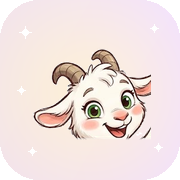
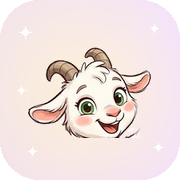
Lot 1 : 8 accessoires au style du dessin, ancres recalées, icône recadrée
Chapeau, lunettes, fleur, écharpe, tutu, baskets, ballon et arc-en-ciel
sont redessinés comme le dessin de Damien et ancrés sur la nouvelle
Chèvra. L'icône montre toute la tête (oreilles et cornes) avec une
marge, cache chevra-icons-v5. Le sac et le collier du dessin, déjà
peints sur la mascotte, sont retirés de la garde-robe.

Changed region(s): [[0.1389, 0.25, 0.8611, 0.7778], [0.7778, 0.7222, 0.8333, 0.7778], [0.8333, 0.6944, 0.8611, 0.7222]]

diff --git a/index.html b/index.html
@@ -9,10 +9,10 @@
 <meta name="mobile-web-app-capable" content="yes">
 <meta name="apple-mobile-web-app-title" content="Chèvra">
 <title>Chèvra – Révisions CM2</title>
-<link rel="icon" type="image/png" sizes="32x32" href="icons/favicon-32.png?v=4">
-<link rel="icon" type="image/png" sizes="64x64" href="icons/favicon-64.png?v=4">
-<link rel="icon" type="image/png" sizes="192x192" href="icons/icon-192.png?v=4">
-<link rel="apple-touch-icon" sizes="180x180" href="icons/apple-touch-icon.png?v=4">
+<link rel="icon" type="image/png" sizes="32x32" href="icons/favicon-32.png?v=5">
+<link rel="icon" type="image/png" sizes="64x64" href="icons/favicon-64.png?v=5">
+<link rel="icon" type="image/png" sizes="192x192" href="icons/icon-192.png?v=5">
+<link rel="apple-touch-icon" sizes="180x180" href="icons/apple-touch-icon.png?v=5">
 <link rel="manifest" href="manifest.webmanifest">
 <style>
 /* =========================================================
@@ -551,13 +551,13 @@ body.welcome main{padding:24px calc(16px + var(--safe-r)) calc(32px + var(--safe
 -->
 <div class="app" id="app">
   <header class="topbar">
-    <button class="brand" aria-label="Chèvra, retour à la carte"><img class="logo" src="icons/icon-192.png?v=4" width="48" height="48" alt=""><span>Chèvra</span></button>
+    <button class="brand" aria-label="Chèvra, retour à la carte"><img class="logo" src="icons/icon-192.png?v=5" width="48" height="48" alt=""><span>Chèvra</span></button>
     <div class="pills" id="pills"></div>
     <button class="iconbtn musicbtn" aria-pressed="false" aria-label="Activer la musique">🎵</button>
     <button class="iconbtn soundbtn" aria-pressed="false" aria-label="Couper le son">🔊</button>
   </header>
   <aside class="sidebar" aria-label="Menu">
-    <button class="brand" aria-label="Chèvra, retour à la carte"><img class="logo" src="icons/icon-192.png?v=4" width="48" height="48" alt=""><span>Chèvra<br><small class="muted" style="font-size:.8rem;font-weight:600">Révisions CM2</small></span></button>
+    <button class="brand" aria-label="Chèvra, retour à la carte"><img class="logo" src="icons/icon-192.png?v=5" width="48" height="48" alt=""><span>Chèvra<br><small class="muted" style="font-size:.8rem;font-weight:600">Révisions CM2</small></span></button>
     <nav class="mainnav" id="nav" aria-label="Navigation principale"></nav>
     <div class="side-foot">
       <button class="btn musicbtn" aria-pressed="false">🎵 Musique : non</button>
@@ -1689,27 +1689,53 @@ document.addEventListener('visibilitychange', ()=>{ if(document.hidden) musicSto
 /* ---------- 5. Mascotte Chèvra (dessin de Damien en image, accessoires en calques SVG) ----------
    Une seule pose. Humeurs : rebonds, inclinaison, paillettes, larme, bulle « ? ».
    Accessoires : injectés dans les calques <g data-l="…"> par dressChevra(). */
+/* Ancres mesurées sur le dessin de Damien (viewBox 200×294, image 1024×1502).
+   transform = translate(tx ty) rotate(rot) scale(s) translate(-ox -oy)
+   (ox,oy) = point d'origine dans le dessin SVG des accessoires ; (tx,ty) = repère sur la photo. */
+const LAYER_XFORM = {
+  fond:  {tx:0, ty:0, rot:0, s:1, ox:0, oy:0},
+  dos:   {tx:88, ty:178, rot:0, s:0.85, ox:100, oy:170},
+  queue: {tx:42, ty:194, rot:-20, s:0.75, ox:34, oy:176},
+  pattes:{tx:85, ty:270, rot:0, s:0.95, ox:88, oy:220},
+  corps: {tx:94, ty:200, rot:0, s:0.8, ox:100, oy:170},
+  armL:  {tx:76, ty:158, rot:20, s:0.8, ox:68, oy:202},
+  cou:   {tx:108, ty:134, rot:-6, s:0.85, ox:100, oy:148},
+  horns: {tx:75, ty:26, rot:-12, s:0.65, ox:100, oy:48},
+  earL:  {tx:28, ty:94, rot:15, s:0.9, ox:30, oy:98},
+  earR:  {tx:152, ty:52, rot:-25, s:0.85, ox:170, oy:98},
+  joue:  {tx:93, ty:92, rot:-12, s:0.82, ox:100, oy:119},
+  museau:{tx:102, ty:98, rot:-10, s:0.75, ox:100, oy:115},
+  yeux:  {tx:91, ty:75, rot:-13, s:0.85, ox:100, oy:98},
+  front: {tx:88, ty:52, rot:-12, s:0.75, ox:100, oy:70},
+  haut:  {tx:82, ty:32, rot:-12, s:0.78, ox:100, oy:46},
+  armR:  {tx:180, ty:92, rot:25, s:0.85, ox:176, oy:38}
+};
+function layerTransform(L){
+  const t=LAYER_XFORM[L]||{tx:0,ty:0,rot:0,s:1,ox:0,oy:0};
+  return `translate(${t.tx} ${t.ty}) rotate(${t.rot||0}) scale(${t.s}) translate(${-t.ox} ${-t.oy})`;
+}
+const SPRITE_VER='5';
 function chevraSVG(){ return `<svg class="chevra" viewBox="0 0 200 294" role="img" aria-label="Chèvra, la petite chèvre blanche">
  <g class="c-bg" data-l="fond"></g>
  <g class="c-all">
-  <g data-l="dos" transform="translate(100 178) scale(0.78) translate(-100 -170)"></g>
-  <image class="c-photo" href="icons/chevra-mascot-1024.webp?v=4" x="0" y="0" width="200" height="294" preserveAspectRatio="xMidYMid meet"/>
-  <g data-l="queue" transform="translate(46 195) scale(0.7) translate(-34 -176)"></g>
-  <g data-l="pattes" transform="translate(89 261) scale(0.9) translate(-88 -220)"></g>
-  <g data-l="corps" transform="translate(102 180) scale(0.72) translate(-100 -170)"></g>
-  <g data-l="armL" transform="translate(91 156) scale(0.8) translate(-68 -202)"></g>
-  <g data-l="cou" transform="translate(108 134) scale(0.7) translate(-100 -148)"></g>
+  <g data-l="dos" transform="${layerTransform('dos')}"></g>
+  <image class="c-photo" href="icons/chevra-mascot-1024.webp?v=5" x="0" y="0" width="200" height="294" preserveAspectRatio="xMidYMid meet"/>
+  <g data-l="queue" transform="${layerTransform('queue')}"></g>
+  <g data-l="pattes" transform="${layerTransform('pattes')}"></g>
+  <g data-l="corps" transform="${layerTransform('corps')}"></g>
+  <g data-l="armL" transform="${layerTransform('armL')}"></g>
+  <g data-l="cou" transform="${layerTransform('cou')}"></g>
   <g class="c-head">
-   <g data-l="horns" transform="translate(93 16) scale(0.4) translate(-100 -48)"></g>
-   <g data-l="earL" transform="translate(16 91) scale(0.85) translate(-30 -98)"></g>
-   <g data-l="earR" transform="translate(164 68) scale(0.85) translate(-170 -98)"></g>
-   <g data-l="joue" transform="translate(102 91) scale(0.8) translate(-100 -119)"></g>
-   <g data-l="museau" transform="translate(106 97) scale(0.7) translate(-100 -115)"></g>
-   <g data-l="yeux" transform="translate(106 73) scale(0.82) translate(-100 -98)"></g>
-   <g data-l="front" transform="translate(104 56) scale(0.72) translate(-100 -70)"></g>
-   <g data-l="haut" transform="translate(102 36) scale(0.7) translate(-100 -46)"></g>
+   <g data-l="horns" transform="${layerTransform('horns')}"></g>
+   <g data-l="earL" transform="${layerTransform('earL')}"></g>
+   <g data-l="earR" transform="${layerTransform('earR')}"></g>
+   <g data-l="joue" transform="${layerTransform('joue')}"></g>
+   <g data-l="museau" transform="${layerTransform('museau')}"></g>
+   <g data-l="yeux" transform="${layerTransform('yeux')}"></g>
+   <g data-l="front" transform="${layerTransform('front')}"></g>
+   <g data-l="haut" transform="${layerTransform('haut')}"></g>
   </g>
-  <g data-l="armR" transform="translate(174 81) scale(0.8) translate(-176 -38)"></g>
+  <g data-l="armR" transform="${layerTransform('armR')}"></g>
   <g class="c-tears"><path d="M78 88 q-3.6 7 0 11 q3.6 -3.2 0 -11z" fill="#9fdcff" stroke="#6fb8e0" stroke-width="1.2"/></g>
   <g class="c-sweat"><path d="M150 48 q-7 10 0 14 q7 -4 0 -14z" fill="#bfe8ff" stroke="#6fb8e0" stroke-width="1.6"/></g>
   <g class="c-think"><circle cx="158" cy="28" r="3.2" fill="#fff" stroke="#d8cfe6" stroke-width="1.8"/><circle cx="168" cy="16" r="5" fill="#fff" stroke="#d8cfe6" stroke-width="1.8"/><ellipse cx="184" cy="2" rx="15" ry="13" fill="#fff" stroke="#d8cfe6" stroke-width="2.2"/><text x="184" y="8" font-size="16" font-weight="bold" text-anchor="middle" fill="#7a5cd6">?</text></g>
@@ -1775,7 +1801,7 @@ const _S = 'stroke="'+_O+'" stroke-width="2.5" stroke-linejoin="round"';
 
 const ACCESSOIRES = [
   /* ----- Tête ----- */
-  {id:'hat', nom:'Chapeau de paille', cat:'tete', prix:60, slots:['haut','corneG','corneD'], hide:['horns'], parts:[['haut',`<path d="M68 46 Q70 8 100 8 Q130 8 132 46 Z" fill="#f6c35b" ${_S}/><path d="M69 34 H131" stroke="#ff6f9f" stroke-width="8"/><ellipse cx="100" cy="46" rx="64" ry="11" fill="#f6c35b" ${_S}/><path d="M48 46 q52 8 104 0" stroke="#e0a63c" stroke-width="2" fill="none"/>`]]},
+  {id:'hat', nom:'Chapeau de paille', cat:'tete', prix:60, slots:['haut','corneG','corneD'], hide:['horns'], sprite:{layer:'haut', src:'icons/acc/hat.webp', cx:86, cy:36, w:114, h:71, rot:-10}, parts:[['haut',`<path d="M68 46 Q70 8 100 8 Q130 8 132 46 Z" fill="#f6c35b" ${_S}/><path d="M69 34 H131" stroke="#ff6f9f" stroke-width="8"/><ellipse cx="100" cy="46" rx="64" ry="11" fill="#f6c35b" ${_S}/><path d="M48 46 q52 8 104 0" stroke="#e0a63c" stroke-width="2" fill="none"/>`]]},
   {id:'crown', nom:'Couronne royale', cat:'tete', prix:150, slots:['haut'], parts:[['haut',`<path d="M74 46 L77 12 L90 28 L100 6 L110 28 L123 12 L126 46 Z" fill="#ffd34d" ${_S}/><path d="M75 40 H125" stroke="#e8a800" stroke-width="3"/><circle cx="100" cy="32" r="4.5" fill="#ff5c93" stroke="${_O}" stroke-width="1.5"/><circle cx="85" cy="36" r="3.2" fill="#5bc0ff"/><circle cx="115" cy="36" r="3.2" fill="#3cc59a"/><circle cx="100" cy="6" r="3" fill="#fff" stroke="${_O}" stroke-width="1.5"/>`]]},
   {id:'wizard', nom:'Chapeau de magicienne', cat:'tete', prix:90, slots:['haut','corneG','corneD'], hide:['horns'], parts:[['haut',`<path d="M62 48 L108 -12 L138 48 Z" fill="#7a5cd6" ${_S}/><ellipse cx="100" cy="48" rx="46" ry="9" fill="#7a5cd6" ${_S}/><path d="${_star(100,22,6)}" fill="#ffd36e"/><path d="${_star(116,36,4)}" fill="#ffd36e"/><path d="${_star(86,40,3.5)}" fill="#ffd36e"/><circle cx="108" cy="-12" r="4.5" fill="#ffd36e" stroke="${_O}" stroke-width="1.5"/>`]]},
   {id:'headphones', nom:'Casque de musique', cat:'tete', prix:70, slots:['haut','oreilleG','oreilleD'], parts:[['haut',`<path d="M42 100 Q36 26 100 24 Q164 26 158 100" fill="none" stroke="${_O}" stroke-width="12" stroke-linecap="round"/><path d="M42 100 Q36 26 100 24 Q164 26 158 100" fill="none" stroke="#7aa7ff" stroke-width="7" stroke-linecap="round"/><rect x="30" y="84" width="22" height="32" rx="11" fill="#7aa7ff" ${_S}/><rect x="148" y="84" width="22" height="32" rx="11" fill="#7aa7ff" ${_S}/><circle cx="41" cy="100" r="5" fill="#ffd1e3"/><circle cx="159" cy="100" r="5" fill="#ffd1e3"/>`]]},
@@ -1787,7 +1813,7 @@ const ACCESSOIRES = [
   {id:'unicorn', nom:'Corne de licorne', cat:'tete', recompense:{badge:'serie7', txt:'Jouer 7 jours de suite'}, slots:['front'], parts:[['front',`<path d="M91 50 L100 0 L109 50 Z" fill="#fff4b8" ${_S}/><path d="M93 40 L106 34 M95 28 L105 23 M97 16 L103 12" stroke="#ffb3d1" stroke-width="3" stroke-linecap="round"/>`]]},
   {id:'headband', nom:'Bandeau de sport', cat:'tete', prix:25, slots:['front'], parts:[['front',`<path d="M42 74 Q100 46 158 74 L156 86 Q100 58 44 86 Z" fill="#7fd6b0" ${_S}/><path d="M60 72 Q100 54 140 72" stroke="#fff" stroke-width="3" fill="none" opacity=".8"/>`]]},
   /* ----- Oreilles & cornes ----- */
-  {id:'flower', nom:'Fleur rose', cat:'oreilles', prix:15, slots:['oreilleG'], parts:[['earL',_flower(27,89,5.5,'#ff8fb8')]]},
+  {id:'flower', nom:'Fleur rose', cat:'oreilles', prix:15, slots:['oreilleG'], sprite:{layer:'earL', src:'icons/acc/flower.webp', cx:28, cy:90, w:28, h:26, rot:-25}, parts:[['earL',_flower(27,89,5.5,'#ff8fb8')]]},
   {id:'bowL', nom:'Petit nœud bleu', cat:'oreilles', prix:15, slots:['oreilleG'], parts:[['earL',_bow(27,89,.75,'#8fd3ff','#4f9ccc',-30)]]},
   {id:'earringL', nom:'Boucle d\'oreille étoile', cat:'oreilles', prix:20, slots:['oreilleG'], parts:[['earL',`<path d="M14 105 v8" stroke="#e8a800" stroke-width="2.5"/><circle cx="14" cy="104" r="2.5" fill="#ffd34d" stroke="${_O}" stroke-width="1.2"/><path d="${_star(14,120,7)}" fill="#ffd34d" stroke="${_O}" stroke-width="1.5" stroke-linejoin="round"/>`]]},
   {id:'bow', nom:'Joli nœud rose', cat:'oreilles', prix:25, slots:['oreilleD'], parts:[['earR',_bow(173,89,.8,'#ff5c93','#d63a75',30)]]},
@@ -1798,7 +1824,7 @@ const ACCESSOIRES = [
   {id:'hornflower', nom:'Fleurette de corne', cat:'oreilles', prix:20, slots:['corneG'], parts:[['horns',_flower(20,44,4,'#c3a6ff')]]},
   {id:'pompom', nom:'Pompon de corne', cat:'oreilles', prix:20, slots:['corneD'], parts:[['horns',`<circle cx="180" cy="46" r="8" fill="#ffd36e" stroke="${_O}" stroke-width="2"/><path d="M168 40 l12 8 M168 52 l12 -8 M174 36 v16" stroke="#f4b23c" stroke-width="1.6"/>`]]},
   /* ----- Visage ----- */
-  {id:'glasses', nom:'Lunettes de savante', cat:'visage', prix:30, slots:['yeux'], parts:[['yeux',`<circle cx="76" cy="98" r="19" fill="rgba(255,255,255,.15)" stroke="#6a4bc4" stroke-width="4"/><circle cx="124" cy="98" r="19" fill="rgba(255,255,255,.15)" stroke="#6a4bc4" stroke-width="4"/><path d="M95 96 q5 -5 10 0 M57 94 L42 88 M143 94 L158 88" stroke="#6a4bc4" stroke-width="4" fill="none" stroke-linecap="round"/>`]]},
+  {id:'glasses', nom:'Lunettes de savante', cat:'visage', prix:30, slots:['yeux'], sprite:{layer:'yeux', src:'icons/acc/glasses.webp', cx:91, cy:82, w:82, h:44, rot:0}, parts:[['yeux',`<circle cx="76" cy="98" r="19" fill="rgba(255,255,255,.15)" stroke="#6a4bc4" stroke-width="4"/><circle cx="124" cy="98" r="19" fill="rgba(255,255,255,.15)" stroke="#6a4bc4" stroke-width="4"/><path d="M95 96 q5 -5 10 0 M57 94 L42 88 M143 94 L158 88" stroke="#6a4bc4" stroke-width="4" fill="none" stroke-linecap="round"/>`]]},
   {id:'sunglasses', nom:'Lunettes de soleil', cat:'visage', prix:50, slots:['yeux'], parts:[['yeux',`<path d="M54 86 h42 q0 27 -21 27 q-21 0 -21 -27z" fill="#2d2440" ${_S}/><path d="M104 86 h42 q0 27 -21 27 q-21 0 -21 -27z" fill="#2d2440" ${_S}/><path d="M96 89 h8 M54 88 L42 84 M146 88 L158 84" stroke="#2d2440" stroke-width="4" stroke-linecap="round"/><path d="M61 92 l8 0 M111 92 l8 0" stroke="#fff" stroke-width="3" stroke-linecap="round" opacity=".7"/>`]]},
   {id:'monocle', nom:'Monocle chic', cat:'visage', prix:40, slots:['yeux'], parts:[['yeux',`<circle cx="124" cy="98" r="19" fill="rgba(255,255,255,.15)" stroke="#e8a800" stroke-width="4"/><path d="M140 110 q14 20 4 40" stroke="#e8a800" stroke-width="2" fill="none" stroke-dasharray="3 3"/>`]]},
   {id:'heartglasses', nom:'Lunettes cœur', cat:'visage', prix:45, slots:['yeux'], parts:[['yeux',`<path d="${_heart(76,100,46)}" fill="rgba(255,92,147,.55)" stroke="#e0306f" stroke-width="3.5"/><path d="${_heart(124,100,46)}" fill="rgba(255,92,147,.55)" stroke="#e0306f" stroke-width="3.5"/><path d="M96 90 h8" stroke="#e0306f" stroke-width="3.5"/>`]]},
@@ -1806,33 +1832,33 @@ const ACCESSOIRES = [
   {id:'sparkles', nom:'Paillettes de joues', cat:'visage', prix:15, slots:['joue'], parts:[['joue',`<path d="${_star(48,128,5)}" fill="#ffd34d"/><path d="${_star(58,133,3)}" fill="#ff8fb8"/><path d="${_star(152,128,5)}" fill="#ffd34d"/><path d="${_star(142,133,3)}" fill="#8fd3ff"/>`]]},
   {id:'mustache', nom:'Moustache rigolote', cat:'visage', prix:25, slots:['museau'], parts:[['museau',`<path d="M100 119 C92 113 82 113 78 120 C84 118 90 122 100 121 C110 122 116 118 122 120 C118 113 108 113 100 119Z" fill="#8a5a44" stroke="${_O}" stroke-width="1.5"/>`]]},
   /* ----- Cou ----- */
-  {id:'scarf', nom:'Écharpe douillette', cat:'cou', prix:40, slots:['cou'], parts:[['cou',`<path d="M56 140 Q100 162 144 140 L148 154 Q100 180 52 154 Z" fill="#ff6f9f" ${_S}/><path d="M118 160 l12 30 l-14 4 l-8 -31z" fill="#ff6f9f" ${_S}/><path d="M72 152 l-2 9 M90 157 l0 9 M110 157 l1 9 M128 152 l2 9" stroke="#fff" stroke-width="3" opacity=".75" stroke-linecap="round"/>`]]},
+  {id:'scarf', nom:'Écharpe douillette', cat:'cou', prix:40, slots:['cou'], sprite:{layer:'cou', src:'icons/acc/scarf.webp', cx:96, cy:163, w:110, h:123, rot:-6}, parts:[['cou',`<path d="M56 140 Q100 162 144 140 L148 154 Q100 180 52 154 Z" fill="#ff6f9f" ${_S}/><path d="M118 160 l12 30 l-14 4 l-8 -31z" fill="#ff6f9f" ${_S}/><path d="M72 152 l-2 9 M90 157 l0 9 M110 157 l1 9 M128 152 l2 9" stroke="#fff" stroke-width="3" opacity=".75" stroke-linecap="round"/>`]]},
   {id:'bowtie', nom:'Nœud papillon', cat:'cou', prix:35, slots:['cou'], parts:[['cou',`<g transform="translate(100 150)"><path d="M0 0 L-17 -10 V10Z M0 0 L17 -10 V10Z" fill="#5bc0ff" ${_S}/><circle r="4.5" fill="#2f8fd0" stroke="${_O}" stroke-width="1.5"/></g>`]]},
   {id:'lei', nom:'Collier de fleurs', cat:'cou', prix:40, slots:['cou'], parts:[['cou',`${_flower(66,146,4,'#ff8fb8')}${_flower(80,154,4,'#ffd36e','#ff8fb8')}${_flower(94,158,4,'#c3a6ff')}${_flower(108,158,4,'#8fd3ff')}${_flower(122,154,4,'#ff8fb8')}${_flower(135,146,4,'#ffd36e','#ff8fb8')}`]]},
   {id:'bell', nom:'Clochette de chèvre', cat:'cou', recompense:{badge:'defi5', txt:'Terminer 5 défis du jour'}, slots:['cou'], parts:[['cou',`<path d="M60 142 Q100 160 140 142" stroke="${_O}" stroke-width="9" fill="none" stroke-linecap="round"/><path d="M60 142 Q100 160 140 142" stroke="#e0306f" stroke-width="5.5" fill="none" stroke-linecap="round"/><path d="M90 168 Q90 152 100 152 Q110 152 110 168 Z" fill="#ffd34d" ${_S}/><circle cx="100" cy="170" r="3" fill="#e8a800" stroke="${_O}" stroke-width="1.2"/>`]]},
   {id:'medal', nom:'Médaille d\'or', cat:'cou', recompense:{badge:'cent', txt:'Donner 100 bonnes réponses'}, slots:['cou'], parts:[['cou',`<path d="M82 144 L96 172 L104 172 L118 144 L108 144 L100 160 L92 144 Z" fill="#5bc0ff" ${_S}/><circle cx="100" cy="178" r="11" fill="#ffd34d" ${_S}/><path d="${_star(100,178,6)}" fill="#fff4b8"/>`]]},
-  {id:'collier_cloche', nom:'Collier et clochette', cat:'cou', recompense:{badge:'parfait', txt:'Obtenir 3 étoiles à un niveau'}, slots:['cou'], parts:[['cou',`<path d="M68 142 Q100 158 132 142" stroke="${_O}" stroke-width="9" fill="none" stroke-linecap="round"/><path d="M68 142 Q100 158 132 142" stroke="#8a5a32" stroke-width="5.5" fill="none" stroke-linecap="round"/><path d="M91 170 Q91 154 100 152 Q109 154 109 170 Q100 176 91 170 Z" fill="#ffd34d" ${_S}/><ellipse cx="100" cy="160" rx="5" ry="3" fill="#ffe9a0"/><circle cx="100" cy="171" r="2.6" fill="#e8a800" stroke="${_O}" stroke-width="1.2"/>`]]},
+  {id:'collier_cloche', hidden:true, nom:'Collier et clochette', cat:'cou', recompense:{badge:'parfait', txt:'Obtenir 3 étoiles à un niveau'}, slots:['cou'], parts:[['cou',`<path d="M68 142 Q100 158 132 142" stroke="${_O}" stroke-width="9" fill="none" stroke-linecap="round"/><path d="M68 142 Q100 158 132 142" stroke="#8a5a32" stroke-width="5.5" fill="none" stroke-linecap="round"/><path d="M91 170 Q91 154 100 152 Q109 154 109 170 Q100 176 91 170 Z" fill="#ffd34d" ${_S}/><ellipse cx="100" cy="160" rx="5" ry="3" fill="#ffe9a0"/><circle cx="100" cy="171" r="2.6" fill="#e8a800" stroke="${_O}" stroke-width="1.2"/>`]]},
   /* ----- Corps & dos ----- */
   {id:'sweater', nom:'Pull tout doux', cat:'corps', prix:55, slots:['corps'], parts:[['corps',`<path d="M64 158 Q66 140 100 140 Q134 140 136 158 L138 196 Q100 210 62 196 Z" fill="#9ad8ff" ${_S}/><path d="M64 172 Q100 180 136 172 M63 186 Q100 195 137 186" stroke="#d6f0ff" stroke-width="4" fill="none"/><path d="M80 143 Q100 152 120 143" stroke="#6fb8e0" stroke-width="5" fill="none" stroke-linecap="round"/>`]]},
   {id:'tshirt', nom:'T-shirt étoile', cat:'corps', prix:35, slots:['corps'], parts:[['corps',`<path d="M64 158 Q66 140 100 140 Q134 140 136 158 L138 196 Q100 210 62 196 Z" fill="#ffe08a" ${_S}/><path d="${_star(100,176,12)}" fill="#ff8fb8" stroke="${_O}" stroke-width="1.8" stroke-linejoin="round"/>`]]},
-  {id:'tutu', nom:'Tutu de danseuse', cat:'corps', prix:50, slots:['corps'], parts:[['corps',`<path d="M60 186 q8 14 16 2 q8 14 16 2 q8 14 16 2 q8 14 16 2 q8 14 16 2 L134 182 Q100 196 66 182 Z" fill="#ffc0dc" ${_S}/><path d="M66 184 Q100 194 134 184" stroke="#ff8fb8" stroke-width="4" fill="none"/>`]]},
+  {id:'tutu', nom:'Tutu de danseuse', cat:'corps', prix:50, slots:['corps'], sprite:{layer:'corps', src:'icons/acc/tutu.webp', cx:92, cy:220, w:120, h:60, rot:0}, parts:[['corps',`<path d="M60 186 q8 14 16 2 q8 14 16 2 q8 14 16 2 q8 14 16 2 q8 14 16 2 L134 182 Q100 196 66 182 Z" fill="#ffc0dc" ${_S}/><path d="M66 184 Q100 194 134 184" stroke="#ff8fb8" stroke-width="4" fill="none"/>`]]},
   {id:'cape', nom:'Cape de héroïne', cat:'corps', recompense:{perfect10:1, txt:'Faire un sans-faute au défi aléatoire (10 questions ou plus)'}, slots:['dos'], parts:[['dos',`<path d="M66 146 Q100 136 134 146 L162 212 Q100 224 38 212 Z" fill="#e0306f" ${_S}/><path d="M70 150 L48 208 M130 150 L152 208" stroke="#b81f55" stroke-width="2.5" fill="none"/>`],['cou',`<circle cx="70" cy="148" r="5" fill="#ffd34d" stroke="${_O}" stroke-width="1.6"/><circle cx="130" cy="148" r="5" fill="#ffd34d" stroke="${_O}" stroke-width="1.6"/>`]]},
   {id:'wings', nom:'Ailes de papillon', cat:'corps', prix:80, slots:['dos'], parts:[['dos',`<path d="M74 160 C40 120 10 140 22 168 C10 190 44 206 74 182 Z" fill="#c3a6ff" ${_S}/><path d="M126 160 C160 120 190 140 178 168 C190 190 156 206 126 182 Z" fill="#c3a6ff" ${_S}/><circle cx="36" cy="160" r="6" fill="#ffd1e3"/><circle cx="164" cy="160" r="6" fill="#ffd1e3"/><circle cx="42" cy="184" r="4" fill="#fff"/><circle cx="158" cy="184" r="4" fill="#fff"/>`]]},
-  {id:'sac_bleu', nom:'Sac à dos bleu', cat:'corps', recompense:{badge:'premier', txt:'Terminer un premier niveau'}, slots:['dos'], parts:[['dos',`<path d="M38 150 Q34 138 48 136 L64 146 L60 198 Q34 194 36 168 Z" fill="#4d8fd6" ${_S}/><path d="M162 150 Q166 138 152 136 L136 146 L140 198 Q166 194 164 168 Z" fill="#4d8fd6" ${_S}/><path d="M56 182 Q100 212 144 182 L148 204 Q100 226 52 204 Z" fill="#4d8fd6" ${_S}/><path d="M44 164 h14 M156 164 h-14" stroke="#ffd34d" stroke-width="3.2" stroke-linecap="round"/><path d="M50 178 q-4 10 0 22 M150 178 q4 10 0 22" stroke="#3a6fad" stroke-width="2" fill="none"/>`],['cou',`<path d="M80 138 Q64 152 48 168" fill="none" stroke="${_O}" stroke-width="5.2" stroke-linecap="round"/><path d="M80 138 Q64 152 48 168" fill="none" stroke="#7eb3ee" stroke-width="2.8" stroke-linecap="round"/><path d="M120 138 Q136 152 152 168" fill="none" stroke="${_O}" stroke-width="5.2" stroke-linecap="round"/><path d="M120 138 Q136 152 152 168" fill="none" stroke="#7eb3ee" stroke-width="2.8" stroke-linecap="round"/>`]]},
+  {id:'sac_bleu', hidden:true, nom:'Sac à dos bleu', cat:'corps', recompense:{badge:'premier', txt:'Terminer un premier niveau'}, slots:['dos'], parts:[['dos',`<path d="M38 150 Q34 138 48 136 L64 146 L60 198 Q34 194 36 168 Z" fill="#4d8fd6" ${_S}/><path d="M162 150 Q166 138 152 136 L136 146 L140 198 Q166 194 164 168 Z" fill="#4d8fd6" ${_S}/><path d="M56 182 Q100 212 144 182 L148 204 Q100 226 52 204 Z" fill="#4d8fd6" ${_S}/><path d="M44 164 h14 M156 164 h-14" stroke="#ffd34d" stroke-width="3.2" stroke-linecap="round"/><path d="M50 178 q-4 10 0 22 M150 178 q4 10 0 22" stroke="#3a6fad" stroke-width="2" fill="none"/>`],['cou',`<path d="M80 138 Q64 152 48 168" fill="none" stroke="${_O}" stroke-width="5.2" stroke-linecap="round"/><path d="M80 138 Q64 152 48 168" fill="none" stroke="#7eb3ee" stroke-width="2.8" stroke-linecap="round"/><path d="M120 138 Q136 152 152 168" fill="none" stroke="${_O}" stroke-width="5.2" stroke-linecap="round"/><path d="M120 138 Q136 152 152 168" fill="none" stroke="#7eb3ee" stroke-width="2.8" stroke-linecap="round"/>`]]},
   {id:'mittens', nom:'Moufles douillettes', cat:'corps', prix:30, slots:['patteAvant'], parts:[['armL',`<ellipse cx="68" cy="202" rx="11" ry="9" fill="#ff8fb8" ${_S}/><path d="M58 197 h20" stroke="#fff" stroke-width="3" stroke-linecap="round"/>`],['armR',`<g transform="rotate(18 176 38)"><ellipse cx="176" cy="38" rx="11" ry="9" fill="#ff8fb8" ${_S}/><path d="M166 33 h20" stroke="#fff" stroke-width="3" stroke-linecap="round"/></g>`]]},
   {id:'bracelet', nom:'Bracelet de perles', cat:'corps', prix:20, slots:['patteAvant'], parts:[['armL',`<g stroke="${_O}" stroke-width="1.2"><circle cx="62" cy="178" r="3.2" fill="#ff8fb8"/><circle cx="67" cy="181" r="3.2" fill="#ffd36e"/><circle cx="73" cy="184" r="3.2" fill="#8fd3ff"/><circle cx="78" cy="182" r="3.2" fill="#c3a6ff"/></g>`]]},
   /* ----- Pattes & queue ----- */
-  {id:'sneakers', nom:'Baskets', cat:'pattes', prix:45, slots:['pattes'], parts:[['pattes',`<path d="M73 217 h23 q4 0 4 6 v4 q0 4 -4 4 h-23 q-4 0 -4 -4 v-4 q0 -6 4 -6z M105 217 h23 q4 0 4 6 v4 q0 4 -4 4 h-23 q-4 0 -4 -4 v-4 q0 -6 4 -6z" fill="#ff6b6b" ${_S}/><path d="M70 227 h30 M102 227 h30" stroke="#fff" stroke-width="3.5"/><path d="M80 220 l8 0 M112 220 l8 0" stroke="#fff" stroke-width="2" stroke-linecap="round"/>`]]},
+  {id:'sneakers', nom:'Baskets', cat:'pattes', prix:45, slots:['pattes'], sprites:[{layer:'pattes', src:'icons/acc/sneakers-l.webp', cx:64, cy:263, w:38, h:30, rot:-12},{layer:'pattes', src:'icons/acc/sneakers-r.webp', cx:117, cy:260, w:42, h:33, rot:6, flip:true}], parts:[['pattes',`<path d="M73 217 h23 q4 0 4 6 v4 q0 4 -4 4 h-23 q-4 0 -4 -4 v-4 q0 -6 4 -6z M105 217 h23 q4 0 4 6 v4 q0 4 -4 4 h-23 q-4 0 -4 -4 v-4 q0 -6 4 -6z" fill="#ff6b6b" ${_S}/><path d="M70 227 h30 M102 227 h30" stroke="#fff" stroke-width="3.5"/><path d="M80 220 l8 0 M112 220 l8 0" stroke="#fff" stroke-width="2" stroke-linecap="round"/>`]]},
   {id:'boots', nom:'Bottes de pluie', cat:'pattes', prix:40, slots:['pattes'], parts:[['pattes',`<path d="M74 200 h21 v26 q0 5 -5 5 h-17 q-5 0 -5 -5 v-2 q0 -4 6 -4z M107 200 h21 v26 q0 5 -5 5 h-17 q-5 0 -5 -5 v-2 q0 -4 6 -4z" fill="#ffd34d" ${_S}/><path d="M74 206 h21 M107 206 h21" stroke="#e8a800" stroke-width="2.5"/>`]]},
   {id:'socks', nom:'Chaussettes rayées', cat:'pattes', prix:20, slots:['pattes'], parts:[['pattes',`<g stroke="#ff8fb8" stroke-width="3.5"><path d="M77 206 h17 M77 211 h17 M109 206 h17 M109 211 h17"/></g><g stroke="#8fd3ff" stroke-width="3.5"><path d="M77 208.5 h17 M77 213.5 h17 M109 208.5 h17 M109 213.5 h17"/></g>`]]},
   {id:'tailbow', nom:'Nœud de queue', cat:'pattes', prix:15, slots:['queue'], parts:[['queue',_bow(34,176,.6,'#c3a6ff','#7a5cd6',-20)]]},
   /* ----- Objets tenus ----- */
-  {id:'balloon', nom:'Ballon cœur', cat:'objets', prix:30, slots:['objet'], parts:[['armR',`<path d="M176 38 Q186 8 188 -20" stroke="${_O}" stroke-width="1.6" fill="none"/><path d="${_heart(192,-28,36)}" fill="#ff5c93" stroke="${_O}" stroke-width="2.2"/><path d="M182 -36 q3 -5 8 -5" stroke="#fff" stroke-width="3" fill="none" stroke-linecap="round" opacity=".8"/>`]]},
+  {id:'balloon', nom:'Ballon cœur', cat:'objets', prix:30, slots:['objet'], sprite:{layer:'armR', src:'icons/acc/balloon.webp', cx:172, cy:50, w:42, h:72, rot:10}, parts:[['armR',`<path d="M176 38 Q186 8 188 -20" stroke="${_O}" stroke-width="1.6" fill="none"/><path d="${_heart(192,-28,36)}" fill="#ff5c93" stroke="${_O}" stroke-width="2.2"/><path d="M182 -36 q3 -5 8 -5" stroke="#fff" stroke-width="3" fill="none" stroke-linecap="round" opacity=".8"/>`]]},
   {id:'wand', nom:'Baguette magique', cat:'objets', recompense:{badge:'revision', txt:'Terminer une révision intelligente'}, slots:['objet'], parts:[['armR',`<path d="M174 42 L188 8" stroke="${_O}" stroke-width="6" stroke-linecap="round"/><path d="M174 42 L188 8" stroke="#c3a6ff" stroke-width="3" stroke-linecap="round"/><path d="${_star(190,4,11)}" fill="#ffd34d" stroke="${_O}" stroke-width="2" stroke-linejoin="round"/>`]]},
   {id:'lollipop', nom:'Sucette arc-en-ciel', cat:'objets', prix:20, slots:['objet'], parts:[['armR',`<path d="M174 40 L186 12" stroke="#fff" stroke-width="4" stroke-linecap="round"/><path d="M174 40 L186 12" stroke="${_O}" stroke-width="1" fill="none"/><circle cx="190" cy="0" r="13" fill="#fff" ${_S}/><path d="M190 0 m-9 0 a9 9 0 0 1 18 0 a6 6 0 0 1 -12 0 a3 3 0 0 1 6 0" stroke="#ff5c93" stroke-width="3" fill="none"/><path d="M190 0 m-11 3 a11 11 0 0 0 22 0" stroke="#8fd3ff" stroke-width="3" fill="none"/>`]]},
   {id:'book', nom:'Livre de sciences', cat:'objets', prix:25, slots:['objet'], parts:[['armR',`<g transform="rotate(16 176 52)"><rect x="162" y="38" width="28" height="22" rx="3" fill="#3cc59a" ${_S}/><path d="M176 38 v22" stroke="${_O}" stroke-width="2"/><path d="${_star(183,49,4)}" fill="#fff"/></g>`]]},
   /* ----- Décors ----- */
-  {id:'rainbow', nom:'Arc-en-ciel', cat:'decors', recompense:{badge:'explo', txt:'Visiter les 6 îles'}, slots:['fond'], parts:[['fond',`<g fill="none" stroke-width="10" opacity=".9"><path d="M8 200 A92 92 0 0 1 192 200" stroke="#ffb3b3"/><path d="M18 200 A82 82 0 0 1 182 200" stroke="#ffe08a"/><path d="M28 200 A72 72 0 0 1 172 200" stroke="#b5ebc9"/><path d="M38 200 A62 62 0 0 1 162 200" stroke="#b9e3ff"/></g>`]]},
+  {id:'rainbow', nom:'Arc-en-ciel', cat:'decors', recompense:{badge:'explo', txt:'Visiter les 6 îles'}, slots:['fond'], sprite:{layer:'fond', src:'icons/acc/rainbow.webp', cx:100, cy:84, w:200, h:102, rot:0}, parts:[['fond',`<g fill="none" stroke-width="10" opacity=".9"><path d="M8 200 A92 92 0 0 1 192 200" stroke="#ffb3b3"/><path d="M18 200 A82 82 0 0 1 182 200" stroke="#ffe08a"/><path d="M28 200 A72 72 0 0 1 172 200" stroke="#b5ebc9"/><path d="M38 200 A62 62 0 0 1 162 200" stroke="#b9e3ff"/></g>`]]},
   {id:'starsky', nom:'Ciel étoilé', cat:'decors', recompense:{badge:'etoiles30', txt:'Gagner 30 étoiles'}, slots:['fond'], parts:[['fond',`<circle cx="100" cy="110" r="98" fill="#e6dcff" opacity=".8"/><path d="${_star(30,40,8)}" fill="#ffd34d"/><path d="${_star(172,48,6)}" fill="#ffd34d"/><path d="${_star(20,130,5)}" fill="#fff"/><path d="${_star(184,140,7)}" fill="#ffd34d"/><path d="${_star(150,6,5)}" fill="#fff"/><circle cx="56" cy="16" r="2.5" fill="#fff"/><circle cx="186" cy="96" r="2.5" fill="#fff"/>`]]},
   {id:'clouds', nom:'Petits nuages', cat:'decors', prix:35, slots:['fond'], parts:[['fond',`<g fill="#fff" stroke="#d8e9f5" stroke-width="2"><path d="M14 60 a10 10 0 0 1 16 -8 a12 12 0 0 1 22 4 a8 8 0 0 1 0 16 h-36 a7 7 0 0 1 -2 -12z"/><path d="M150 30 a9 9 0 0 1 14 -7 a11 11 0 0 1 20 4 a7 7 0 0 1 0 14 h-32 a6 6 0 0 1 -2 -11z"/><path d="M160 150 a8 8 0 0 1 12 -6 a10 10 0 0 1 18 3 a6 6 0 0 1 0 12 h-28 a5 5 0 0 1 -2 -9z"/></g>`]]},
 
@@ -1853,20 +1879,34 @@ const ACCESSOIRES = [
 ];
 const ACC = Object.fromEntries(ACCESSOIRES.map(a=>[a.id,a]));
 const LAYER_ORDER_IN = id=>ACCESSOIRES.indexOf(ACC[id]);
-function layerMarkup(wear, layer){ return (wear||[]).filter(id=>ACC[id]).sort((a,b)=>LAYER_ORDER_IN(a)-LAYER_ORDER_IN(b)).map(id=>ACC[id].parts.filter(p=>p[0]===layer).map(p=>p[1]).join('')).join(''); }
+function itemSprites(it){ if(!it) return []; if(it.sprites) return it.sprites; if(it.sprite) return [it.sprite]; return []; }
+function spriteMarkup(sp, layer){
+  const t=LAYER_XFORM[layer]||{tx:0,ty:0,rot:0,s:1,ox:0,oy:0};
+  const inv=`translate(${t.ox} ${t.oy}) scale(${1/t.s}) rotate(${-(t.rot||0)}) translate(${-t.tx} ${-t.ty})`;
+  const flip=sp.flip?' scale(-1 1)':'';
+  const href=sp.src+(sp.src.includes('?')?'':'?v='+SPRITE_VER);
+  return `<g transform="${inv}"><g transform="translate(${sp.cx} ${sp.cy}) rotate(${sp.rot||0})${flip}"><image href="${href}" x="${-sp.w/2}" y="${-sp.h/2}" width="${sp.w}" height="${sp.h}" preserveAspectRatio="xMidYMid meet"/></g></g>`;
+}
+function layerMarkup(wear, layer){
+  return (wear||[]).filter(id=>ACC[id]).sort((a,b)=>LAYER_ORDER_IN(a)-LAYER_ORDER_IN(b)).map(id=>{
+    const it=ACC[id], sps=itemSprites(it).filter(s=>s.layer===layer);
+    if(sps.length) return sps.map(s=>spriteMarkup(s, layer)).join('');
+    return it.parts.filter(p=>p[0]===layer).map(p=>p[1]).join('');
+  }).join('');
+}
 function accOverlap(a,b){ return a!==b && ACC[a] && ACC[b] && ACC[a].slots.some(s=>ACC[b].slots.includes(s)); }
 function slotNames(it){ return it.slots.map(s=>SLOTS[s]).join(' + '); }
 
 
 /* ---------- 6. Boutique & badges ---------- */
-const SHOP = ACCESSOIRES;   // la garde-robe : voir ACCESSOIRES (partie 5 bis)
+const SHOP = ACCESSOIRES.filter(it=>!it.hidden);   // sac bleu et collier sont déjà dessinés sur la mascotte
 // Migration : anciennes sauvegardes { equipped:{slot:id} } → liste S.wear ; conflits de places résolus (on garde le premier).
 function migrateWardrobe(){
   if(!Array.isArray(S.owned)) S.owned=[];
-  S.owned=[...new Set(S.owned.filter(id=>ACC[id]))];
+  S.owned=[...new Set(S.owned.filter(id=>ACC[id] && !ACC[id].hidden))];
   let src = Array.isArray(S.wear) ? S.wear.slice() : [];
   if(S.equipped && typeof S.equipped==='object'){ ['tete','yeux','cou','corps','oreille'].concat(Object.keys(S.equipped)).forEach(k=>{ const id=S.equipped[k]; if(id && !src.includes(id)) src.push(id); }); }
-  const wear=[]; src.forEach(id=>{ if(ACC[id] && S.owned.includes(id) && !wear.some(w=>accOverlap(w,id))) wear.push(id); });
+  const wear=[]; src.forEach(id=>{ if(ACC[id] && !ACC[id].hidden && S.owned.includes(id) && !wear.some(w=>accOverlap(w,id))) wear.push(id); });
   S.wear=wear; delete S.equipped; S.v=Math.max(S.v||1,2);
 }
 // Accessoires « récompense » : débloqués par un exploit. Renvoie les nouveaux.
@@ -1876,7 +1916,7 @@ function rewardMet(r){
   if(r.perfect10) return !!(S.random && S.random.perfect10);
   return false;
 }
-function checkRewards(){ const got=[]; ACCESSOIRES.forEach(it=>{ if(it.recompense && !S.owned.includes(it.id) && rewardMet(it.recompense)){ S.owned.push(it.id); got.push(it); } }); return got; }
+function checkRewards(){ const got=[]; ACCESSOIRES.forEach(it=>{ if(it.hidden) return; if(it.recompense && !S.owned.includes(it.id) && rewardMet(it.recompense)){ S.owned.push(it.id); got.push(it); } }); return got; }
 
 const BADGES = [
   {id:'premier', e:'🐾', nom:'Premiers pas', d:'Terminer un premier niveau'},
@@ -2102,7 +2142,7 @@ function screenRevision(){
 }
 function screenShop(cat){
   if(!CATS.some(c=>c[0]===cat)) cat='tete';
-  const items=SHOP.filter(it=>it.cat===cat), owned=S.owned.length;
+  const items=SHOP.filter(it=>it.cat===cat), owned=S.owned.filter(id=>ACC[id]&&!ACC[id].hidden).length;
   const wornChips = S.wear.length ? S.wear.map(id=>`<button class="chipbtn worn" data-equip="${id}" aria-label="Enlever : ${esc(ACC[id].nom)}">${esc(ACC[id].nom)} ✕</button>`).join('') : '<span class="muted">Rien pour l\'instant : choisis un accessoire !</span>';
   return `<section class="screen shop"><div class="section-title"><h1 style="margin:0">🛍 La garde-robe de Chèvra</h1></div>
   <div class="card wardrobe-top">${chevraHost('wardrobe-chevra')}<div class="wt-info">

diff --git a/sw.js b/sw.js
@@ -1,6 +1,6 @@
 /* Chèvra – cache des icônes et du manifeste. Incrémenter CACHE pour forcer la mise à jour de l'icône d'accueil.
    La page index.html n'est pas mise en cache, pour que les nouvelles questions arrivent tout de suite. */
-const CACHE = 'chevra-icons-v4';
+const CACHE = 'chevra-icons-v5';
 const ASSETS = [
   './manifest.webmanifest',
   './icons/favicon-32.png',
@@ -9,7 +9,16 @@ const ASSETS = [
   './icons/icon-512.png',
   './icons/apple-touch-icon.png',
   './icons/chevra-mascot-1024.webp',
-  './icons/chevra-mascot-512.webp'
+  './icons/chevra-mascot-512.webp',
+  './icons/acc/hat.webp',
+  './icons/acc/glasses.webp',
+  './icons/acc/flower.webp',
+  './icons/acc/scarf.webp',
+  './icons/acc/tutu.webp',
+  './icons/acc/sneakers-l.webp',
+  './icons/acc/sneakers-r.webp',
+  './icons/acc/balloon.webp',
+  './icons/acc/rainbow.webp'
 ];
 self.addEventListener('install', ev => {
   ev.waitUntil(caches.open(CACHE).then(c => c.addAll(ASSETS)).then(() => self.skipWaiting()));
